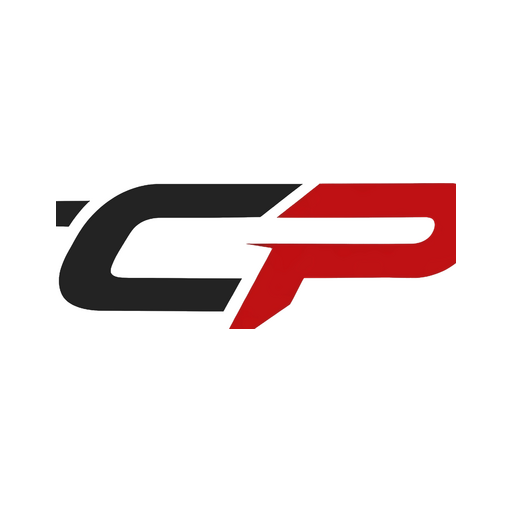
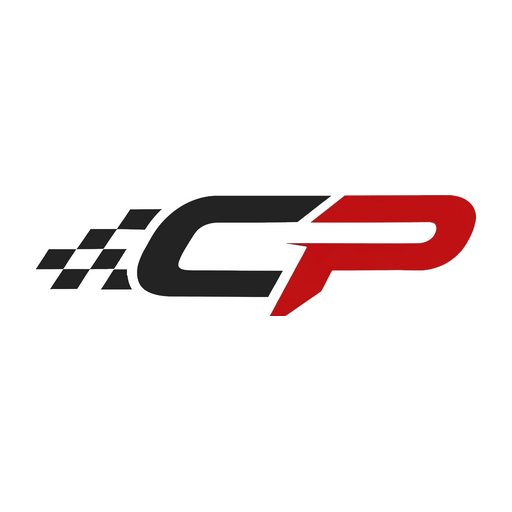
Agrega la bandera de cuadros al ícono de la app
El ícono (512/192/180) ahora incluye la bandera de carreras junto al
monograma CP, igual que en el logo completo. El favicon de 32px se queda
solo con la "CP" (sin la bandera), que a ese tamaño tan chico se volvía
puro ruido ilegible.

Claude-Session: https://claude.ai/code/session_017DWodS2TJv8UrLv9yacsAY

Changed region(s): [[0.0625, 0.3438, 0.9375, 0.6562]]

diff --git a/index.html b/index.html
@@ -9,7 +9,7 @@
 <link rel="apple-touch-icon" href="icon-180.png">
 <link rel="manifest" href="manifest.webmanifest">
 <meta name="theme-color" content="#8c1d24">
-<link rel="stylesheet" href="style.css?v=2026-11-23T05-31-31">
+<link rel="stylesheet" href="style.css?v=2026-11-23T05-32-55">
 <script src="https://cdn.jsdelivr.net/npm/@supabase/supabase-js@2" onerror="window.__supabaseCdnFailed = true"></script>
 <script src="https://cdnjs.cloudflare.com/ajax/libs/pdf.js/3.11.174/pdf.min.js" onerror="window.__pdfCdnFailed = true"></script>
 <script src="https://cdnjs.cloudflare.com/ajax/libs/tesseract.js/5.0.4/tesseract.min.js" onerror="window.__ocrCdnFailed = true"></script>
@@ -743,6 +743,6 @@
   </div>
 </div>
 
-<script src="app.js?v=2026-11-23T05-31-31"></script>
+<script src="app.js?v=2026-11-23T05-32-55"></script>
 </body>
 </html>
